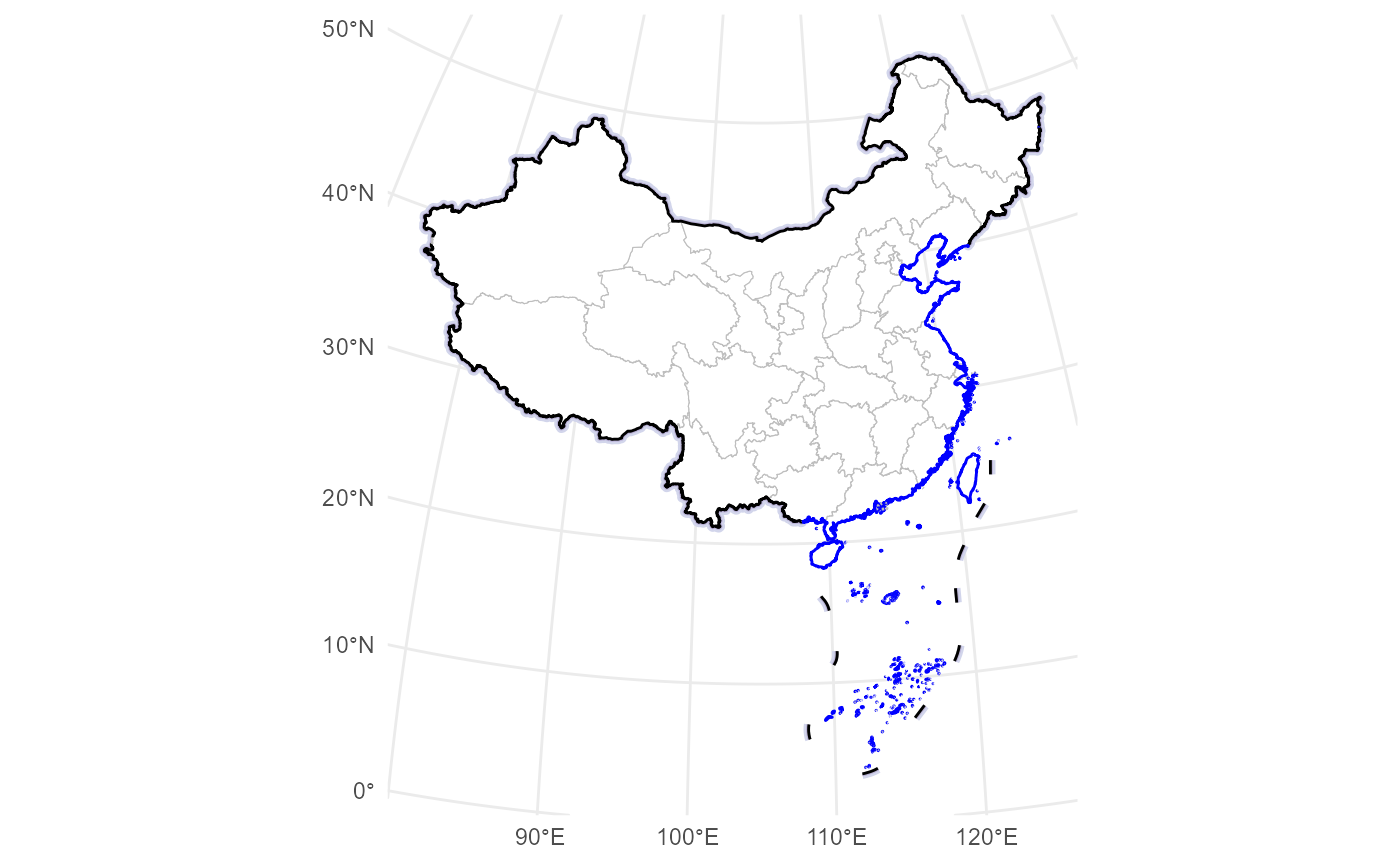
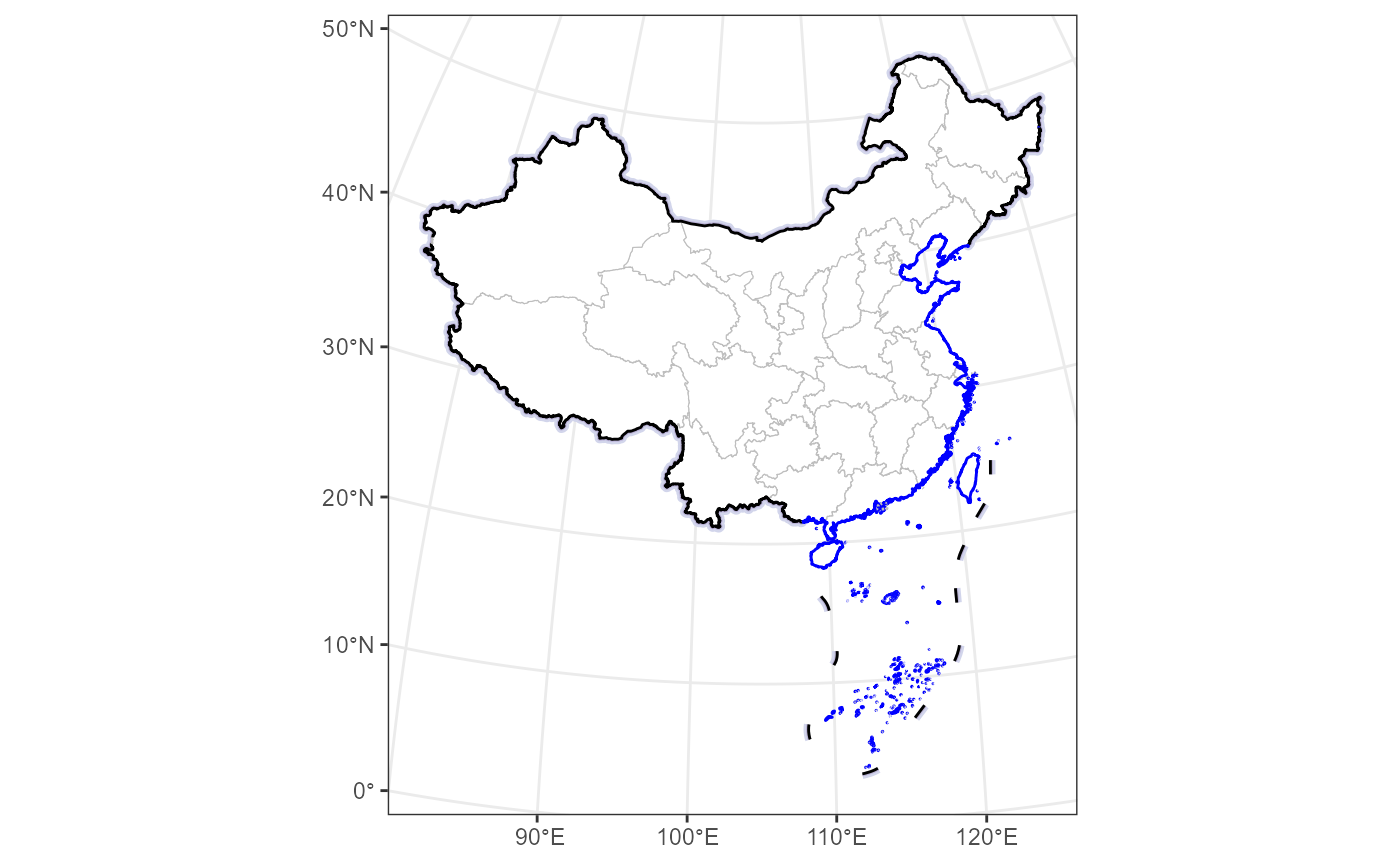
0.0.1

Changed region(s): [[0.2764, 0.9364, 0.7679, 0.9676], [0.2764, 0.0, 0.3071, 0.0312]]

diff --git a/docs/articles/01.Get_started.html b/docs/articles/01.Get_started.html
@@ -5,12 +5,12 @@
 <meta charset="utf-8">
 <meta http-equiv="X-UA-Compatible" content="IE=edge">
 <meta name="viewport" content="width=device-width, initial-scale=1, shrink-to-fit=no">
-<title>Get_started • ggmapcn</title>
+<title>Get_Started • ggmapcn</title>
 <script src="../deps/jquery-3.6.0/jquery-3.6.0.min.js"></script><meta name="viewport" content="width=device-width, initial-scale=1, shrink-to-fit=no">
 <link href="../deps/bootstrap-5.3.1/bootstrap.min.css" rel="stylesheet">
 <script src="../deps/bootstrap-5.3.1/bootstrap.bundle.min.js"></script><link href="../deps/font-awesome-6.4.2/css/all.min.css" rel="stylesheet">
 <link href="../deps/font-awesome-6.4.2/css/v4-shims.min.css" rel="stylesheet">
-<script src="../deps/headroom-0.11.0/headroom.min.js"></script><script src="../deps/headroom-0.11.0/jQuery.headroom.min.js"></script><script src="../deps/bootstrap-toc-1.0.1/bootstrap-toc.min.js"></script><script src="../deps/clipboard.js-2.0.11/clipboard.min.js"></script><script src="../deps/search-1.0.0/autocomplete.jquery.min.js"></script><script src="../deps/search-1.0.0/fuse.min.js"></script><script src="../deps/search-1.0.0/mark.min.js"></script><!-- pkgdown --><script src="../pkgdown.js"></script><meta property="og:title" content="Get_started">
+<script src="../deps/headroom-0.11.0/headroom.min.js"></script><script src="../deps/headroom-0.11.0/jQuery.headroom.min.js"></script><script src="../deps/bootstrap-toc-1.0.1/bootstrap-toc.min.js"></script><script src="../deps/clipboard.js-2.0.11/clipboard.min.js"></script><script src="../deps/search-1.0.0/autocomplete.jquery.min.js"></script><script src="../deps/search-1.0.0/fuse.min.js"></script><script src="../deps/search-1.0.0/mark.min.js"></script><!-- pkgdown --><script src="../pkgdown.js"></script><meta property="og:title" content="Get_Started">
 </head>
 <body>
     <a href="#main" class="visually-hidden-focusable">Skip to contents</a>
@@ -33,7 +33,7 @@
 <li class="active nav-item dropdown">
   <button class="nav-link dropdown-toggle" type="button" id="dropdown-articles" data-bs-toggle="dropdown" aria-expanded="false" aria-haspopup="true">Articles</button>
   <ul class="dropdown-menu" aria-labelledby="dropdown-articles">
-<li><a class="dropdown-item" href="../articles/01.Get_Started.html">Get_started</a></li>
+<li><a class="dropdown-item" href="../articles/01.Get_Started.html">Get_Started</a></li>
     <li><a class="dropdown-item" href="../articles/02.Adding_Spatial_Data.html">Adding_Spatial_Data</a></li>
   </ul>
 </li>
@@ -56,7 +56,7 @@
 <div class="row">
   <main id="main" class="col-md-9"><div class="page-header">
 
-      <h1>Get_started</h1>
+      <h1>Get_Started</h1>
             
       
       <small class="dont-index">Source: <a href="https://github.com/yourusername/yourrepository/blob/HEAD/vignettes/01.Get_Started.Rmd" class="external-link"><code>vignettes/01.Get_Started.Rmd</code></a></small>
@@ -92,7 +92,7 @@ boundaries, buffer zones, and coastlines on the same map:</p>
 <span>  <span class="fu"><a href="../reference/geom_buffer_cn.html">geom_buffer_cn</a></span><span class="op">(</span>mainland_dist <span class="op">=</span> <span class="fl">20000</span>, fill <span class="op">=</span> <span class="st">"#BBB3D8"</span><span class="op">)</span> <span class="op">+</span></span>
 <span>  <span class="fu"><a href="../reference/geom_mapcn.html">geom_mapcn</a></span><span class="op">(</span>fill <span class="op">=</span> <span class="st">"white"</span><span class="op">)</span> <span class="op">+</span></span>
 <span>  <span class="fu"><a href="../reference/geom_boundary_cn.html">geom_boundary_cn</a></span><span class="op">(</span><span class="op">)</span> <span class="op">+</span></span>
-<span>  <span class="fu"><a href="https://ggplot2.tidyverse.org/reference/ggtheme.html" class="external-link">theme_minimal</a></span><span class="op">(</span><span class="op">)</span></span></code></pre></div>
+<span>  <span class="fu"><a href="https://ggplot2.tidyverse.org/reference/ggtheme.html" class="external-link">theme_bw</a></span><span class="op">(</span><span class="op">)</span></span></code></pre></div>
 <p><img src="01.Get_started_files/figure-html/example5-1.png" alt="Map of China" width="700"></p>
 </div>
   </main><aside class="col-md-3"><nav id="toc" aria-label="Table of contents"><h2>On this page</h2>

diff --git a/docs/articles/index.html b/docs/articles/index.html
@@ -18,7 +18,7 @@
       <ul class="navbar-nav me-auto"><li class="nav-item"><a class="nav-link" href="../reference/index.html">Reference</a></li>
 <li class="nav-item dropdown">
   <button class="nav-link dropdown-toggle" type="button" id="dropdown-articles" data-bs-toggle="dropdown" aria-expanded="false" aria-haspopup="true">Articles</button>
-  <ul class="dropdown-menu" aria-labelledby="dropdown-articles"><li><a class="dropdown-item" href="../articles/01.Get_Started.html">Get_started</a></li>
+  <ul class="dropdown-menu" aria-labelledby="dropdown-articles"><li><a class="dropdown-item" href="../articles/01.Get_Started.html">Get_Started</a></li>
     <li><a class="dropdown-item" href="../articles/02.Adding_Spatial_Data.html">Adding_Spatial_Data</a></li>
   </ul></li>
       </ul><ul class="navbar-nav"><li class="nav-item"><form class="form-inline" role="search">
@@ -39,7 +39,7 @@
       <h3>All vignettes</h3>
       <div class="section-desc"></div>
 
-      <dl><dt><a href="01.Get_Started.html">Get_started</a></dt>
+      <dl><dt><a href="01.Get_Started.html">Get_Started</a></dt>
         <dd>
         </dd><dt><a href="02.Adding_Spatial_Data.html">Adding_Spatial_Data</a></dt>
         <dd>

diff --git a/docs/reference/geom_boundary_cn.html b/docs/reference/geom_boundary_cn.html
@@ -22,7 +22,7 @@ Each boundary type can be customized in terms of color, line width, and line typ
       <ul class="navbar-nav me-auto"><li class="active nav-item"><a class="nav-link" href="../reference/index.html">Reference</a></li>
 <li class="nav-item dropdown">
   <button class="nav-link dropdown-toggle" type="button" id="dropdown-articles" data-bs-toggle="dropdown" aria-expanded="false" aria-haspopup="true">Articles</button>
-  <ul class="dropdown-menu" aria-labelledby="dropdown-articles"><li><a class="dropdown-item" href="../articles/01.Get_Started.html">Get_started</a></li>
+  <ul class="dropdown-menu" aria-labelledby="dropdown-articles"><li><a class="dropdown-item" href="../articles/01.Get_Started.html">Get_Started</a></li>
     <li><a class="dropdown-item" href="../articles/02.Adding_Spatial_Data.html">Adding_Spatial_Data</a></li>
   </ul></li>
       </ul><ul class="navbar-nav"><li class="nav-item"><form class="form-inline" role="search">

diff --git a/docs/reference/geom_buffer_cn.html b/docs/reference/geom_buffer_cn.html
@@ -22,7 +22,7 @@ are generated around each boundary, providing flexibility in projection and appe
       <ul class="navbar-nav me-auto"><li class="active nav-item"><a class="nav-link" href="../reference/index.html">Reference</a></li>
 <li class="nav-item dropdown">
   <button class="nav-link dropdown-toggle" type="button" id="dropdown-articles" data-bs-toggle="dropdown" aria-expanded="false" aria-haspopup="true">Articles</button>
-  <ul class="dropdown-menu" aria-labelledby="dropdown-articles"><li><a class="dropdown-item" href="../articles/01.Get_Started.html">Get_started</a></li>
+  <ul class="dropdown-menu" aria-labelledby="dropdown-articles"><li><a class="dropdown-item" href="../articles/01.Get_Started.html">Get_Started</a></li>
     <li><a class="dropdown-item" href="../articles/02.Adding_Spatial_Data.html">Adding_Spatial_Data</a></li>
   </ul></li>
       </ul><ul class="navbar-nav"><li class="nav-item"><form class="form-inline" role="search">

diff --git a/docs/reference/geom_loc.html b/docs/reference/geom_loc.html
@@ -20,7 +20,7 @@ It allows color mapping based on a grouping variable in the data."></head><body>
       <ul class="navbar-nav me-auto"><li class="active nav-item"><a class="nav-link" href="../reference/index.html">Reference</a></li>
 <li class="nav-item dropdown">
   <button class="nav-link dropdown-toggle" type="button" id="dropdown-articles" data-bs-toggle="dropdown" aria-expanded="false" aria-haspopup="true">Articles</button>
-  <ul class="dropdown-menu" aria-labelledby="dropdown-articles"><li><a class="dropdown-item" href="../articles/01.Get_Started.html">Get_started</a></li>
+  <ul class="dropdown-menu" aria-labelledby="dropdown-articles"><li><a class="dropdown-item" href="../articles/01.Get_Started.html">Get_Started</a></li>
     <li><a class="dropdown-item" href="../articles/02.Adding_Spatial_Data.html">Adding_Spatial_Data</a></li>
   </ul></li>
       </ul><ul class="navbar-nav"><li class="nav-item"><form class="form-inline" role="search">

diff --git a/docs/reference/pollen.html b/docs/reference/pollen.html
@@ -26,7 +26,7 @@ vegetation patterns and environmental reconstructions by correlating with other 
       <ul class="navbar-nav me-auto"><li class="active nav-item"><a class="nav-link" href="../reference/index.html">Reference</a></li>
 <li class="nav-item dropdown">
   <button class="nav-link dropdown-toggle" type="button" id="dropdown-articles" data-bs-toggle="dropdown" aria-expanded="false" aria-haspopup="true">Articles</button>
-  <ul class="dropdown-menu" aria-labelledby="dropdown-articles"><li><a class="dropdown-item" href="../articles/01.Get_Started.html">Get_started</a></li>
+  <ul class="dropdown-menu" aria-labelledby="dropdown-articles"><li><a class="dropdown-item" href="../articles/01.Get_Started.html">Get_Started</a></li>
     <li><a class="dropdown-item" href="../articles/02.Adding_Spatial_Data.html">Adding_Spatial_Data</a></li>
   </ul></li>
       </ul><ul class="navbar-nav"><li class="nav-item"><form class="form-inline" role="search">

diff --git a/docs/reference/geom_mapcn.html b/docs/reference/geom_mapcn.html
@@ -18,7 +18,7 @@
       <ul class="navbar-nav me-auto"><li class="active nav-item"><a class="nav-link" href="../reference/index.html">Reference</a></li>
 <li class="nav-item dropdown">
   <button class="nav-link dropdown-toggle" type="button" id="dropdown-articles" data-bs-toggle="dropdown" aria-expanded="false" aria-haspopup="true">Articles</button>
-  <ul class="dropdown-menu" aria-labelledby="dropdown-articles"><li><a class="dropdown-item" href="../articles/01.Get_Started.html">Get_started</a></li>
+  <ul class="dropdown-menu" aria-labelledby="dropdown-articles"><li><a class="dropdown-item" href="../articles/01.Get_Started.html">Get_Started</a></li>
     <li><a class="dropdown-item" href="../articles/02.Adding_Spatial_Data.html">Adding_Spatial_Data</a></li>
   </ul></li>
       </ul><ul class="navbar-nav"><li class="nav-item"><form class="form-inline" role="search">

diff --git a/docs/reference/geom_vege_raster.html b/docs/reference/geom_vege_raster.html
@@ -18,7 +18,7 @@
       <ul class="navbar-nav me-auto"><li class="active nav-item"><a class="nav-link" href="../reference/index.html">Reference</a></li>
 <li class="nav-item dropdown">
   <button class="nav-link dropdown-toggle" type="button" id="dropdown-articles" data-bs-toggle="dropdown" aria-expanded="false" aria-haspopup="true">Articles</button>
-  <ul class="dropdown-menu" aria-labelledby="dropdown-articles"><li><a class="dropdown-item" href="../articles/01.Get_Started.html">Get_started</a></li>
+  <ul class="dropdown-menu" aria-labelledby="dropdown-articles"><li><a class="dropdown-item" href="../articles/01.Get_Started.html">Get_Started</a></li>
     <li><a class="dropdown-item" href="../articles/02.Adding_Spatial_Data.html">Adding_Spatial_Data</a></li>
   </ul></li>
       </ul><ul class="navbar-nav"><li class="nav-item"><form class="form-inline" role="search">

diff --git a/docs/reference/index.html b/docs/reference/index.html
@@ -18,7 +18,7 @@
       <ul class="navbar-nav me-auto"><li class="active nav-item"><a class="nav-link" href="../reference/index.html">Reference</a></li>
 <li class="nav-item dropdown">
   <button class="nav-link dropdown-toggle" type="button" id="dropdown-articles" data-bs-toggle="dropdown" aria-expanded="false" aria-haspopup="true">Articles</button>
-  <ul class="dropdown-menu" aria-labelledby="dropdown-articles"><li><a class="dropdown-item" href="../articles/01.Get_Started.html">Get_started</a></li>
+  <ul class="dropdown-menu" aria-labelledby="dropdown-articles"><li><a class="dropdown-item" href="../articles/01.Get_Started.html">Get_Started</a></li>
     <li><a class="dropdown-item" href="../articles/02.Adding_Spatial_Data.html">Adding_Spatial_Data</a></li>
   </ul></li>
       </ul><ul class="navbar-nav"><li class="nav-item"><form class="form-inline" role="search">

diff --git a/docs/authors.html b/docs/authors.html
@@ -18,7 +18,7 @@
       <ul class="navbar-nav me-auto"><li class="nav-item"><a class="nav-link" href="reference/index.html">Reference</a></li>
 <li class="nav-item dropdown">
   <button class="nav-link dropdown-toggle" type="button" id="dropdown-articles" data-bs-toggle="dropdown" aria-expanded="false" aria-haspopup="true">Articles</button>
-  <ul class="dropdown-menu" aria-labelledby="dropdown-articles"><li><a class="dropdown-item" href="articles/01.Get_Started.html">Get_started</a></li>
+  <ul class="dropdown-menu" aria-labelledby="dropdown-articles"><li><a class="dropdown-item" href="articles/01.Get_Started.html">Get_Started</a></li>
     <li><a class="dropdown-item" href="articles/02.Adding_Spatial_Data.html">Adding_Spatial_Data</a></li>
   </ul></li>
       </ul><ul class="navbar-nav"><li class="nav-item"><form class="form-inline" role="search">

diff --git a/docs/404.html b/docs/404.html
@@ -33,7 +33,7 @@
 <li class="nav-item dropdown">
   <button class="nav-link dropdown-toggle" type="button" id="dropdown-articles" data-bs-toggle="dropdown" aria-expanded="false" aria-haspopup="true">Articles</button>
   <ul class="dropdown-menu" aria-labelledby="dropdown-articles">
-<li><a class="dropdown-item" href="https://rimagination.github.io/ggmapcn/articles/01.Get_Started.html">Get_started</a></li>
+<li><a class="dropdown-item" href="https://rimagination.github.io/ggmapcn/articles/01.Get_Started.html">Get_Started</a></li>
     <li><a class="dropdown-item" href="https://rimagination.github.io/ggmapcn/articles/02.Adding_Spatial_Data.html">Adding_Spatial_Data</a></li>
   </ul>
 </li>

diff --git a/docs/articles/02.Adding_Spatial_Data.html b/docs/articles/02.Adding_Spatial_Data.html
@@ -33,7 +33,7 @@
 <li class="active nav-item dropdown">
   <button class="nav-link dropdown-toggle" type="button" id="dropdown-articles" data-bs-toggle="dropdown" aria-expanded="false" aria-haspopup="true">Articles</button>
   <ul class="dropdown-menu" aria-labelledby="dropdown-articles">
-<li><a class="dropdown-item" href="../articles/01.Get_Started.html">Get_started</a></li>
+<li><a class="dropdown-item" href="../articles/01.Get_Started.html">Get_Started</a></li>
     <li><a class="dropdown-item" href="../articles/02.Adding_Spatial_Data.html">Adding_Spatial_Data</a></li>
   </ul>
 </li>
